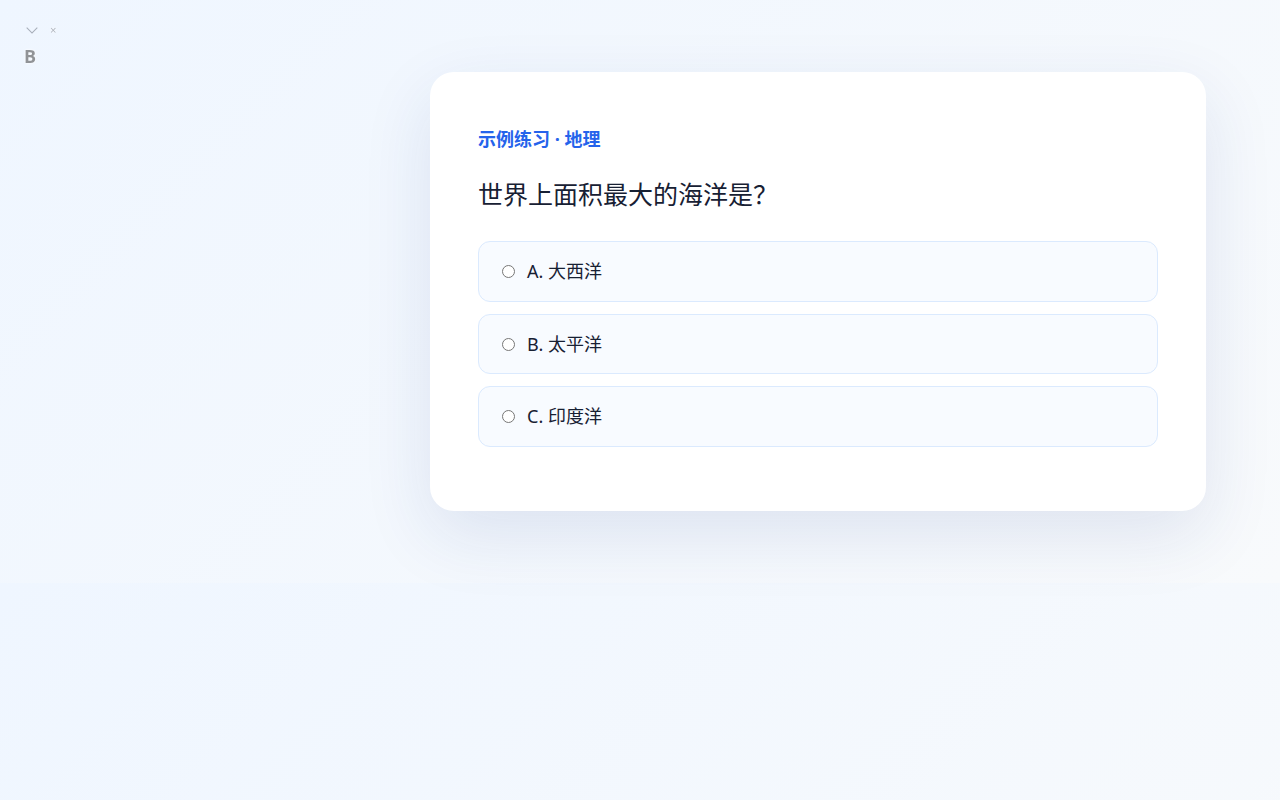
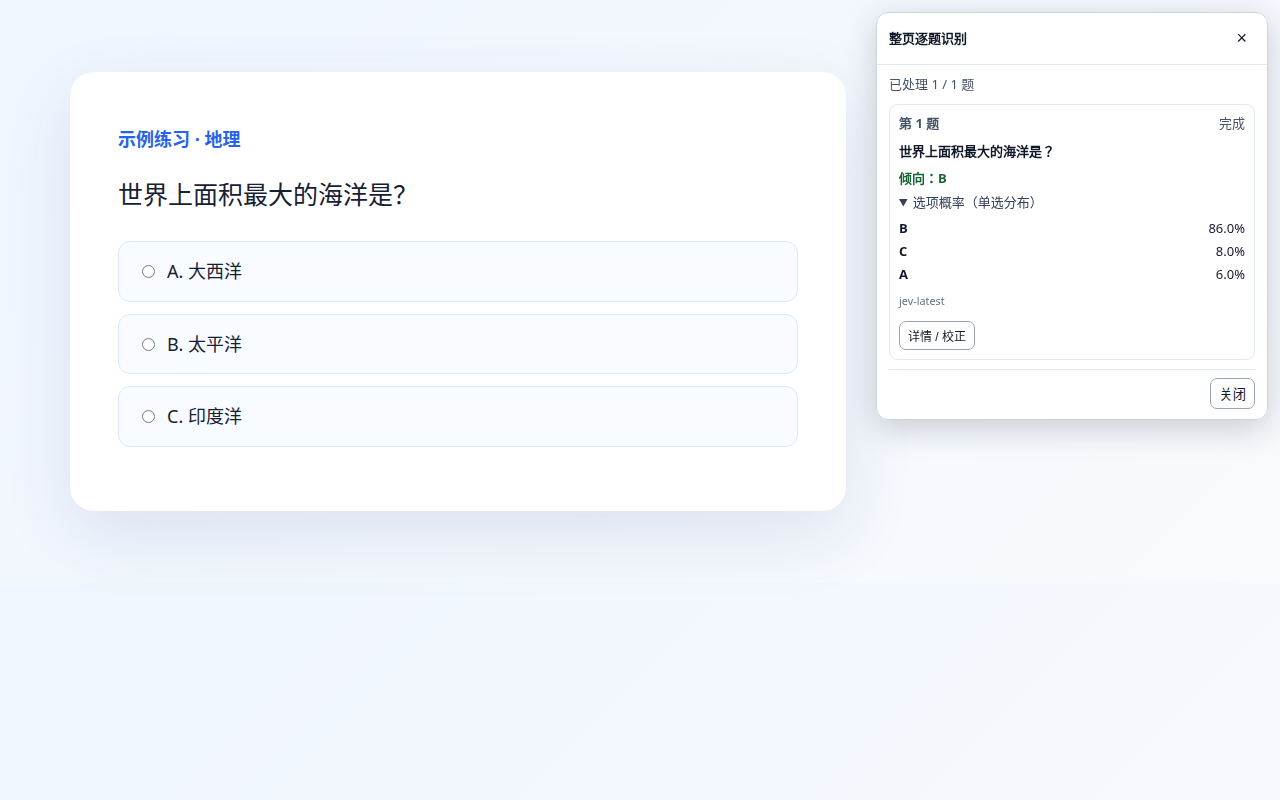
chore: keep only latest store assets (#2)

diff --git a/docs/RELEASE_CHECKLIST.md b/docs/RELEASE_CHECKLIST.md
@@ -14,7 +14,7 @@
 - [x] 默认结果覆盖层保持紧凑，仅显示答案提示；详情页才显示概率、校正和答案解析
 - [x] Chrome 无 manifest、CSP 或 service worker 错误
[1 lines of base64/hex data omitted]
-- [x] `JEV_STORE_ASSET_DIR=store-assets-20260923-v3 npm run assets:store` 生成 1280×800 的新版设置页与逐题概率结果截图；原有截图目录保留未覆盖。
+- [x] `npm run assets:store` 生成 1280×800 的最新版设置页与逐题概率结果截图，保存在 `store-assets/`。
 - [x] GitHub Actions [`Validate extension` 通过（提交 `3a8a56a`）](https://github.com/anyran/jev-swot/actions/runs/35941009588)，Linux、Windows、macOS 均成功；已保留三个 ZIP 构建产物至 2026-10-08：`jev-swot-release-ubuntu-latest-3a8a56a447ad54ff13cfba5512614871ae1cac97`、`jev-swot-release-windows-latest-3a8a56a447ad54ff13cfba5512614871ae1cac97`、`jev-swot-release-macos-latest-3a8a56a447ad54ff13cfba5512614871ae1cac97`
 - [ ] 完成人工发布验收后，推送与 `package.json`、`public/manifest.json` 版本一致的 `v<version>` 标签；GitHub Actions 会重新验证并把 `release/jev-swot-<version>.zip` 发布为 GitHub Release 资产
 
@@ -37,7 +37,7 @@
 ## Chrome Web Store
 
 - [ ] 推送后在仓库 Settings → Pages 中选择 GitHub Actions，确认 `https://anyran.github.io/jev-swot/privacy.html` 可公开访问
-- [x] 准备商店截图（`store-assets-20260923-v3/`）、简短说明、详细说明和权限说明
+- [x] 准备商店截图（`store-assets/`）、简短说明、详细说明和权限说明
 - [ ] 在 Chrome Web Store 开发者账号中验证支持邮箱
 - [ ] 解释 `storage`、`offscreen`、`activeTab`、站点访问及可选主机权限用途
 - [ ] 确认扩展只执行包内代码，模型与 WASM 均随包发布
